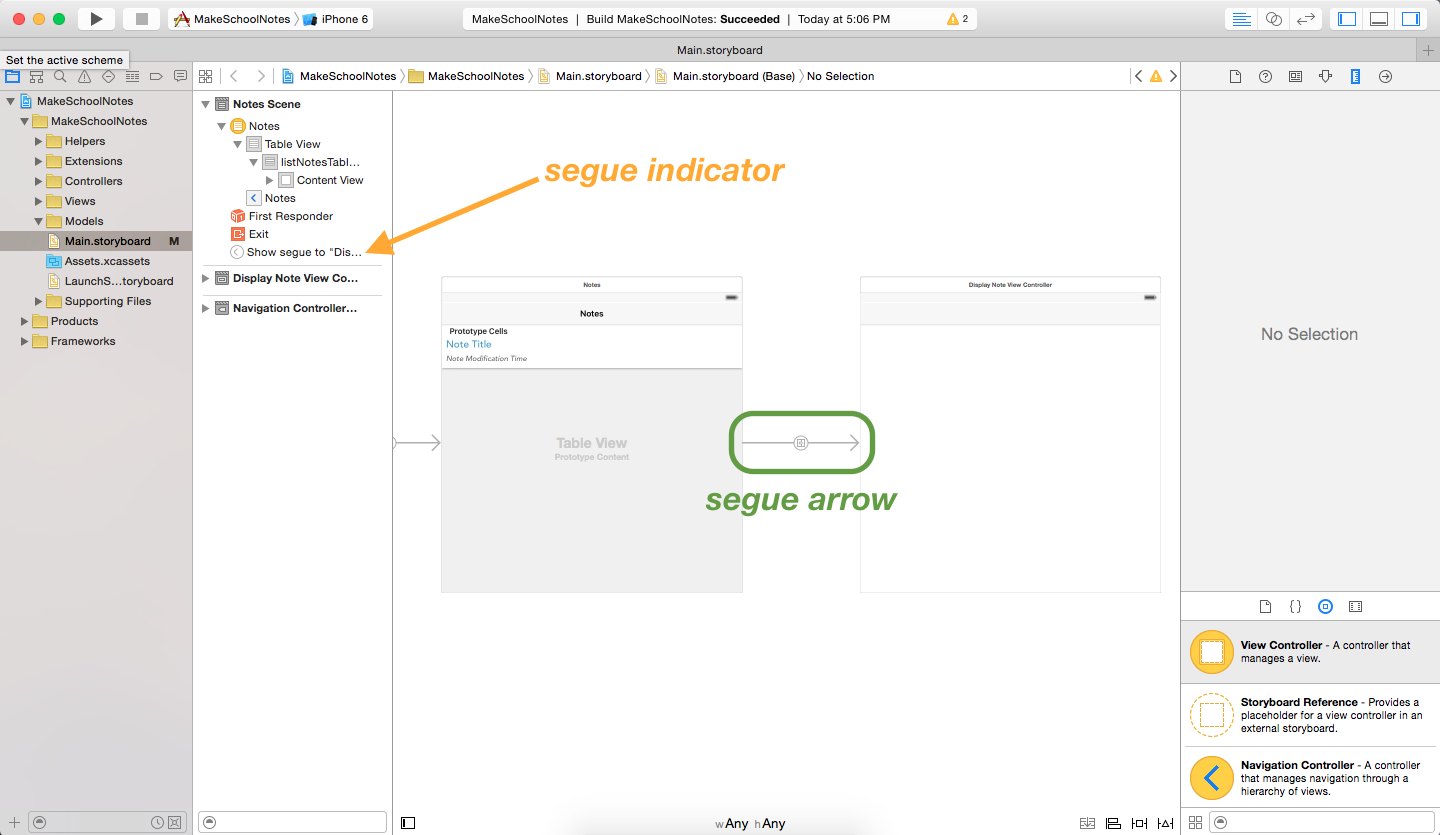
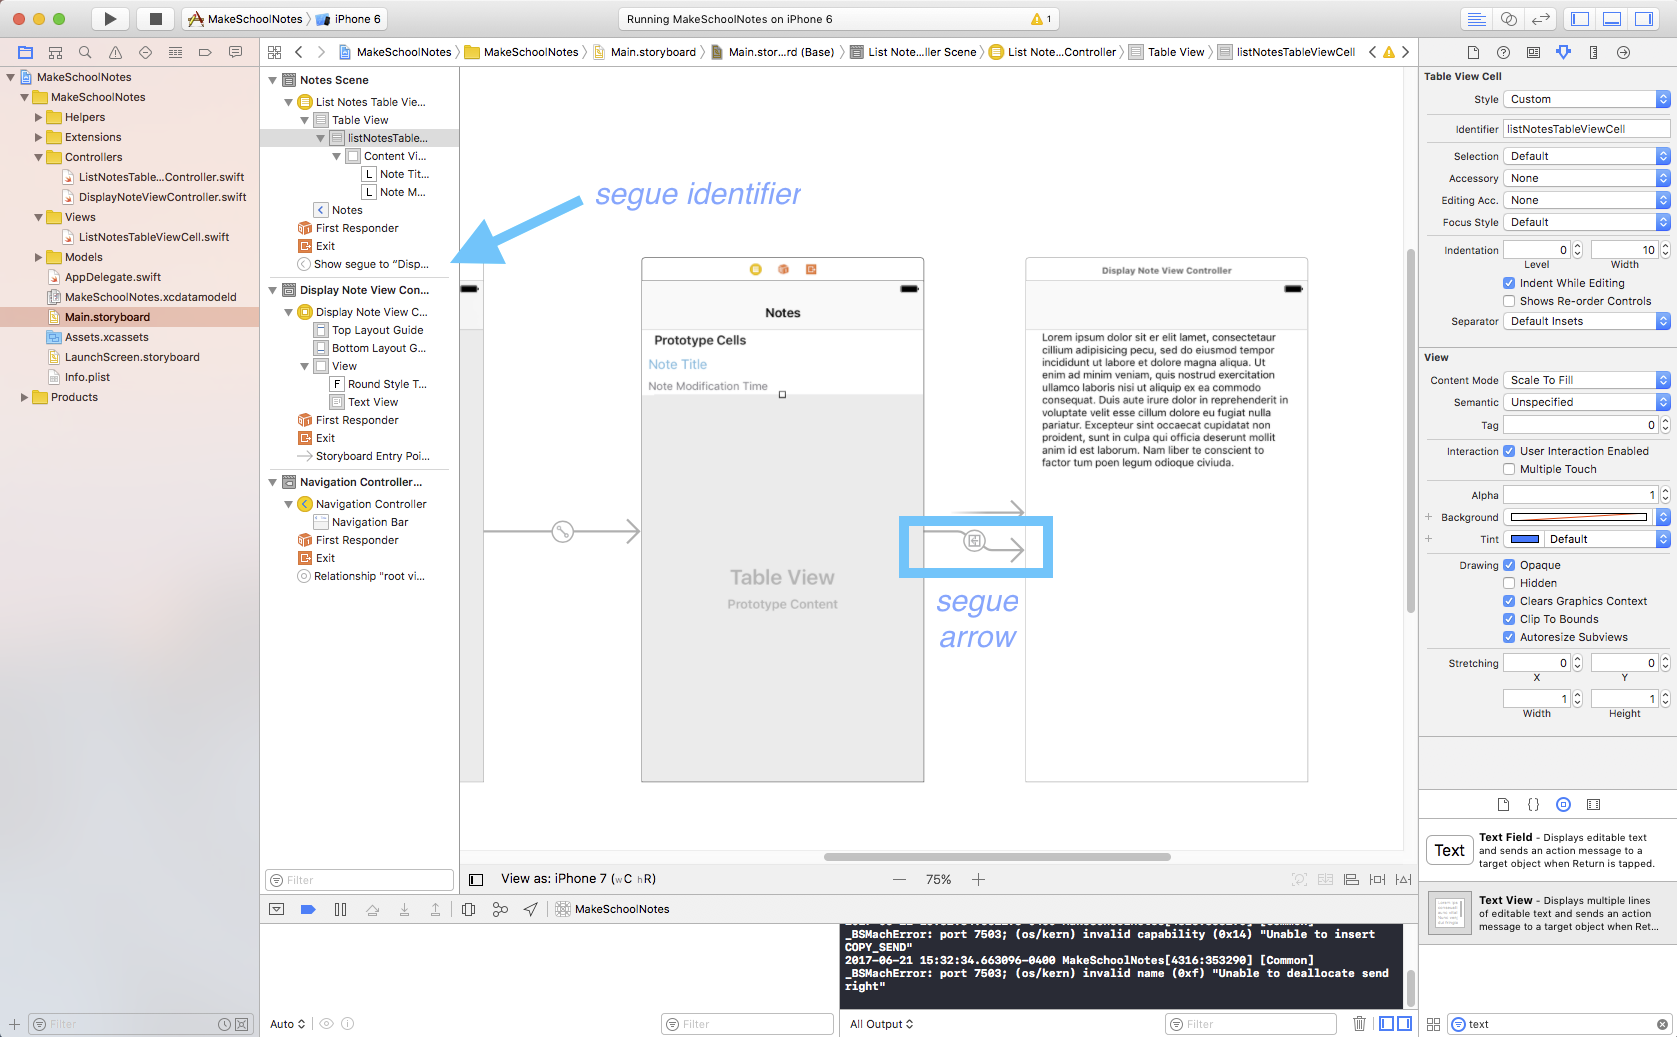
Update screenshots

diff --git a/P05-Introduction-to-Segues/content.md b/P05-Introduction-to-Segues/content.md
@@ -16,7 +16,7 @@ Notice that when we added the segue an arrow appeared pointing from our *List No
 
 ![image showing changes from segue](./images/segue.png)
 
-#Segue Identifiers
+#Segue Identifiers & Fixing Constraints
 
 Segue identifiers are used to uniquely identify segues. We can set a segue's identifier in the Attributes inspector.
 
@@ -24,6 +24,16 @@ Segue identifiers are used to uniquely identify segues. We can set a segue's ide
 Set the identifier of the segue that we created above to "displayNote".
 >
 ![image showing changes from segue](./images/segue-id.png)
+
+Now, let's fix the constraints on the detail view since adding the navigation bar controller messed them up a bit...
+
+> [action]
+>
+First, delete all the constraints. Now rearrange your elements and then `Reset to Suggested Constraints` again.
+>
+Watch the video if you need some guidance!
+>
+![ms-video](https://s3.amazonaws.com/mgwu-misc/Make+School+Notes/fix-constraints.mp4) 
 
 #The prepare(for:sender:) method
 
